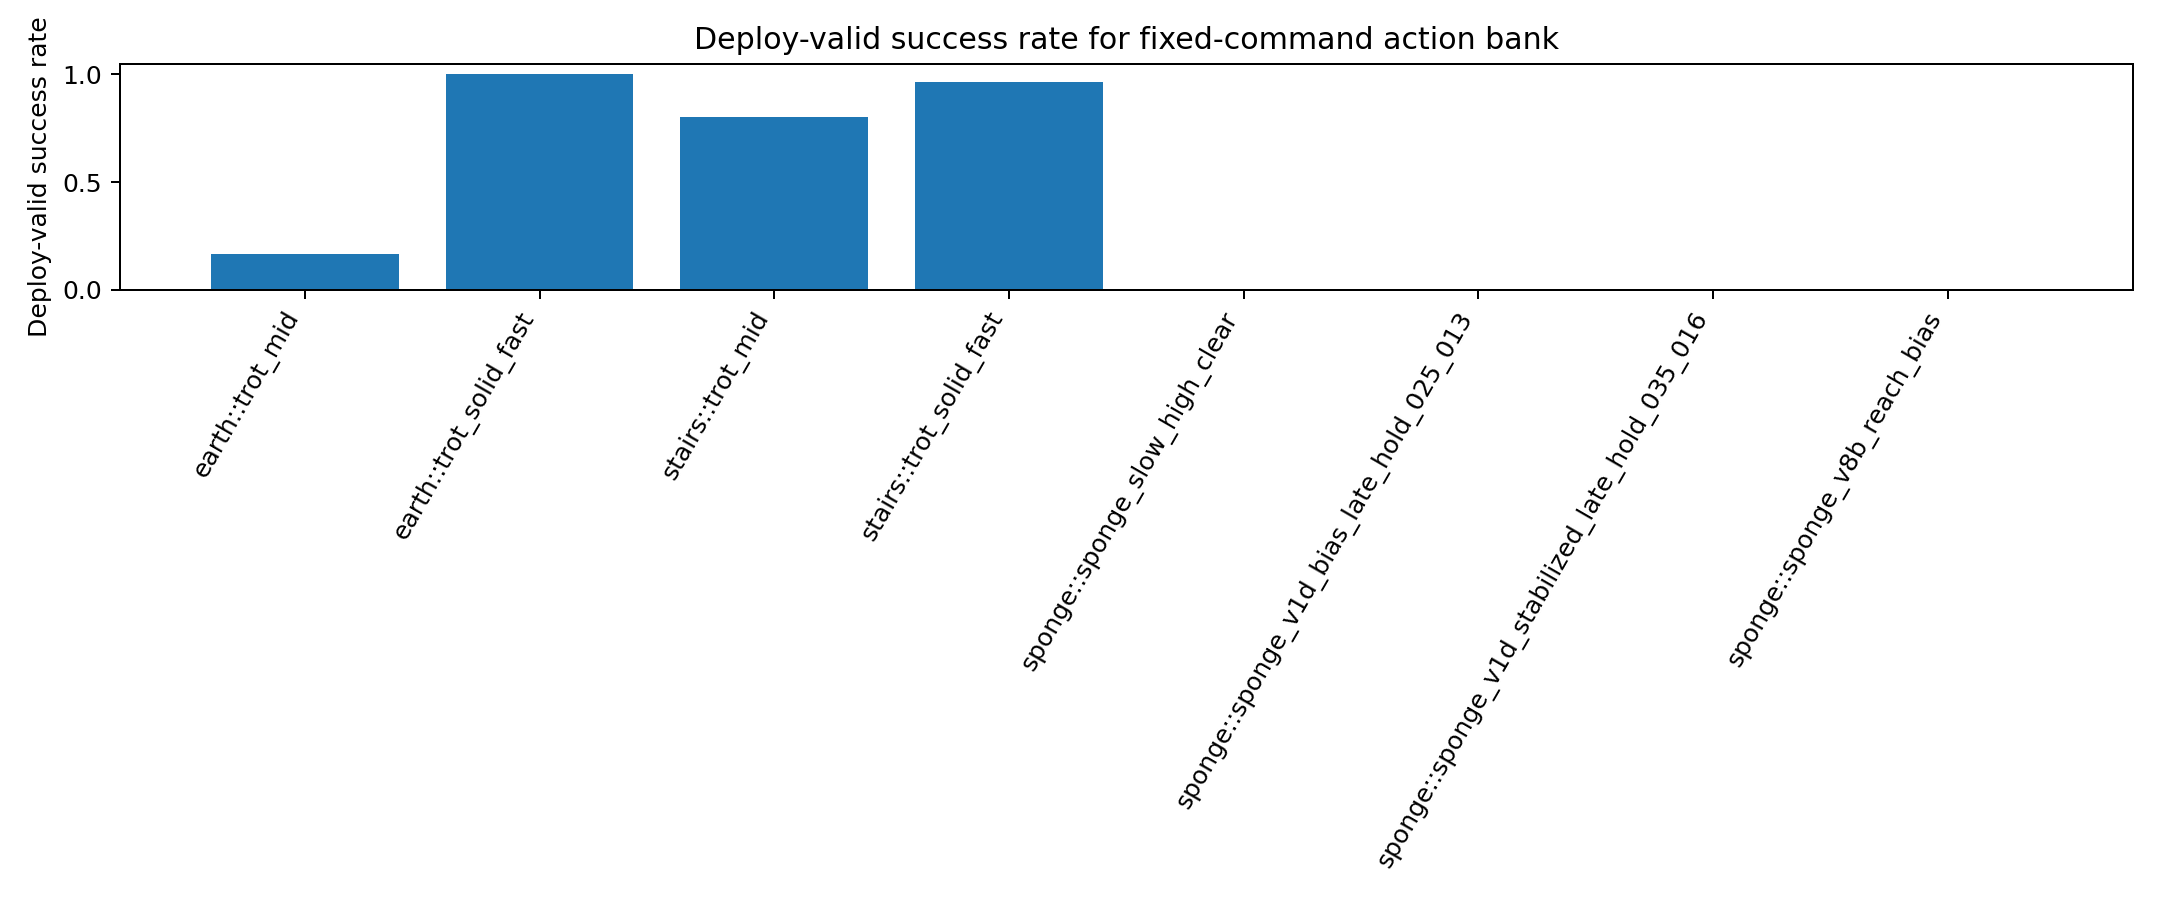
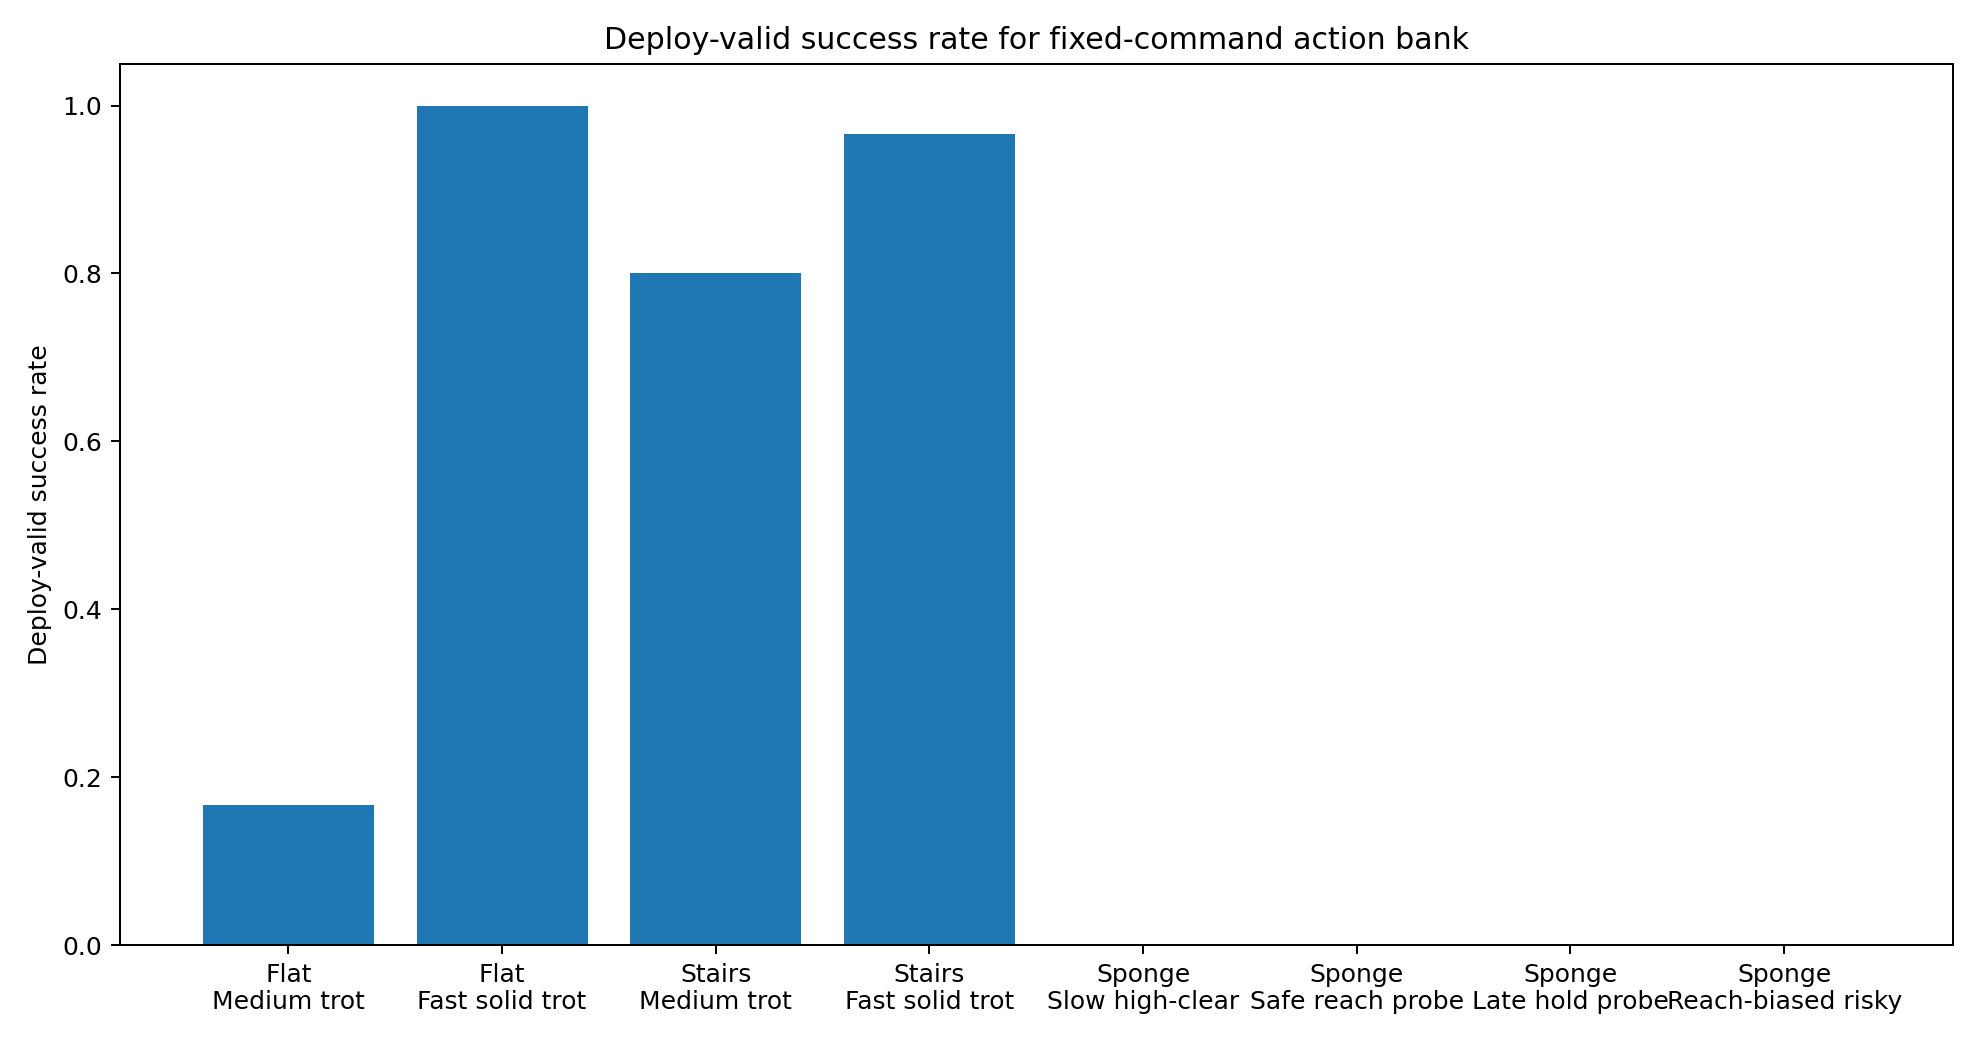
Improve readability of Phase-B ablation chart labels

diff --git a/scripts/training/tracer_make_phase_b_objective_ram_ablation_table_v1.py b/scripts/training/tracer_make_phase_b_objective_ram_ablation_table_v1.py
@@ -18,6 +18,43 @@ REPORT_PATHS = {
 }
 
 
+
+ACTION_LABELS = {
+    "earth::trot_mid": "Flat\nMedium trot",
+    "earth::trot_solid_fast": "Flat\nFast solid trot",
+    "stairs_single::trot_mid": "Stairs\nMedium trot",
+    "stairs_single::trot_solid_fast": "Stairs\nFast solid trot",
+    "sponge::sponge_slow_high_clear": "Sponge\nSlow high-clear",
+    "sponge::sponge_v1d_bias_late_hold_025_013": "Sponge\nSafe reach probe",
+    "sponge::sponge_v1d_stabilized_late_hold_035_016": "Sponge\nLate hold probe",
+    "sponge::sponge_v8b_reach_bias": "Sponge\nReach-biased risky",
+    "tracer_sponge_firm_flat::sponge_slow_high_clear": "Sponge\nSlow high-clear",
+    "tracer_sponge_firm_flat::sponge_v1d_bias_late_hold_025_013": "Sponge\nSafe reach probe",
+    "tracer_sponge_firm_flat::sponge_v1d_stabilized_late_hold_035_016": "Sponge\nLate hold probe",
+    "tracer_sponge_firm_flat::sponge_v8b_reach_bias": "Sponge\nReach-biased risky",
+}
+
+MODE_LABELS_READABLE = {
+    "obj_off_ram_off": "Reach-only",
+    "obj_on_ram_off": "Task\nobjective",
+    "obj_off_ram_on": "Risk\nfilter",
+    "obj_on_ram_on": "Task + risk",
+}
+
+
+def readable_action_label(r):
+    key = r.get("world_action", "")
+    if key in ACTION_LABELS:
+        return ACTION_LABELS[key]
+    world = r.get("world", "")
+    action = r.get("action", "")
+    return f"{world}\n{action}"
+
+
+def readable_mode_label(mode):
+    return MODE_LABELS_READABLE.get(mode, mode)
+
+
 MODES = [
     ("obj_off_ram_off", "Objective OFF / RAM OFF"),
     ("obj_on_ram_off", "Objective ON / RAM OFF"),
@@ -200,7 +237,7 @@ def make_markdown(action_rows, selected):
 def grouped_bar(selected, metric, ylabel, out_path):
     worlds = WORLDS
     mode_keys = [m[0] for m in MODES]
-    mode_labels = [m[1].replace(" / ", "\n") for m in MODES]
+    mode_labels = [readable_mode_label(m[0]) for m in MODES]
 
     vals = []
     for world in worlds:
@@ -229,13 +266,13 @@ def grouped_bar(selected, metric, ylabel, out_path):
 
 
 def action_bar(action_rows, metric, ylabel, out_path):
-    labels = [f"{r['world']}::{r['action']}" for r in action_rows]
+    labels = [readable_action_label(r) for r in action_rows]
     vals = [ff(r.get(metric)) for r in action_rows]
 
-    fig, ax = plt.subplots(figsize=(12, 5))
+    fig, ax = plt.subplots(figsize=(11, 5.8))
     ax.bar(list(range(len(labels))), vals)
     ax.set_xticks(list(range(len(labels))))
-    ax.set_xticklabels(labels, rotation=60, ha="right")
+    ax.set_xticklabels(labels, rotation=0, ha="center")
     ax.set_ylabel(ylabel)
     ax.set_title(ylabel + " for fixed-command action bank")
     fig.tight_layout()
